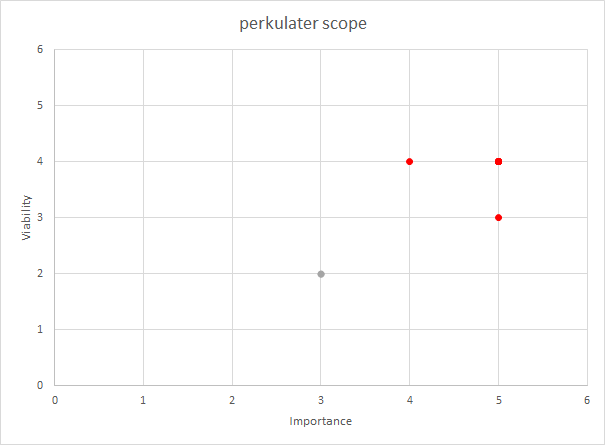
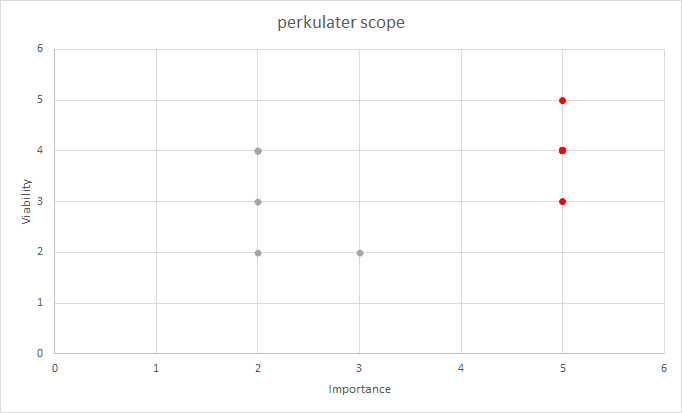
update project strategy and scope, add site map

diff --git a/README.md b/README.md
@@ -53,13 +53,20 @@
 - [Acknowledgements](#acknowledgements)
 
 ## Background ##
-With the rise in home working, many former commuters now miss out on a the joy of drinking a high quality morning coffee made with the finest ingredients. **Perkulater** aims to provide great quality coffee beans and ground coffee, delivered to your home.
+With the rise in home working seen in 2020 and 2021 due to the coronavirus pandemic, many former commuters now miss out on a the joy of drinking a high quality morning coffee made with the finest quality ingredients. Specialist, small batch coffee subscription services have been a significant growth market in 2020 and 2021, as the links below show:  
+[CNN Business](https://edition.cnn.com/2020/06/21/business/people-signing-up-for-coffee-subscriptions/index.html)  
+[World Coffee Portal](https://www.worldcoffeeportal.com/Latest/InsightAnalysis/2020/November/Home-Is-Where-the-Coffee-Is)  
+[BBC News](https://www.bbc.com/future/bespoke/made-on-earth/how-the-coffee-trade-survived-Covid-19.html)  
+
+**Perkulater** aims to provide great quality, ethically sourced coffee beans and ground coffee, delivered to your home. The business will initially focus on providing a just a handful of lovingly curated, high quality coffees. If the initial business proves to be successful, the future growth strategy would be to begin to expand into offering **cold brew**, **coffee making equipment** e.g. V60 drippers, stove top espresso pots, AeroPress coffee makers etc., **coffee pods** and eventually **branded merchandise**.
+
+Please note that at this stage, **perkulater** is a ficticious store which has been created for the purposes of satisfying the requirements for the **Code Institute** Full Stack Development Course Milestone Project 4.
 
 ## Mission Statement ##
-To provide great quality coffee beans and ground coffee delivered to your home.
+To provide great quality, ethically sourced coffee beans and ground coffee delivered to your home.
 
 ## Target Audience ##
-The target audience for **perkulater** are consumers who love great quality coffee and would like to be able to make coffee shop quality coffee at home.
+The target audience for **perkulater** are consumers who love great quality, ethically sourced coffee and would like to be able to make coffee shop quality coffee at home. **Perkulater** will be aimed at the higher end of the market, where consumers prioritise high quality and responsibly sourced coffee over low prices.
 
 ## Stakeholder Interviews
 Short interviews were carried out with potential customers.
@@ -72,15 +79,17 @@ Short interviews were carried out with potential customers.
 * "What is the price?"
 * "What are the delivery costs?"
 * "Is there positive feedback from happy customers?"
+* "How do I know that the coffee will be tailored to my taste?"
 
 "Are there any particular features you would like to see in an online coffee beans and ground coffee website?"
 * "I would like to be able to subscribe to get a regular delivery of my favourite coffee beans."
-* "I would like to be able to subscribe to get a regular delivery of different coffee beans selected based on my preferences."
+* "I would like to be able to subscribe to get a regular delivery of different coffee beans selected based on my taste preferences."
 * "I would like to be able to purchase a gift card."
 
 ## Business Objectives ##
+Although the business is ficticous at this stage, the following business objectives have been considered as part of the overall development strategy:  
 * Provide a high quality, well designed online shop that enables secure purchases, inspires confidence in the quality of the product, and increases the likelyhood of repeat purchases and subscriptions.
-* Provide the ability for customers to leave positive feedback and reviews on the products, to inspire confidence in new customers.
+* Provide the ability and incentivise customers to leave positive feedback and reviews on the products, to inspire confidence in new customers.
 * Grow the brand over time, starting with coffee beans and ground coffee and scaling up to add more products as the brand grows.
 * Track sales data to inform future business strategy.
 
@@ -92,11 +101,11 @@ Short interviews were carried out with potential customers.
 * Review and recommend products.
 * Contact the business about an order.
 * Contact the business with a general enquiry.
-* Customise my subscription service so that I can try different coffees based on my preferences.
-* Purchase high quality cold brew coffee in a can (this product line will be added in a future development phase).
-* Purchase high quality coffee making equipment (this product line will be added in a future development phase).
-* Purchase high quality, great tasting coffee pods (this product line will be added in a future development phase).
-* Purchase branded merchadise (this product line will be added in a future development phase).
+* Customise my subscription service so that I can try different coffees specifically tailored to my taste preferences.
+* Purchase high quality cold brew coffee in a can (this product line could potentially be added in a future development phase).
+* Purchase high quality coffee making equipment (this product line could potentially be added in a future development phase).
+* Purchase high quality, great tasting coffee pods (this product line could potentially be added in a future development phase).
+* Purchase branded merchadise (this product line could potentially be added in a future development phase).
 
 ## UX ##
 
@@ -107,16 +116,16 @@ The following opportunities were identified and ranked using a score of 1 - 5 fo
 
 Opportunity|Description|Importance|Viability|Opportunity ID|Development Phase
 -----------|-----------|----------|---------|--------------|-----------------
-Coffee beans and ground coffee|Develop an online store to sell high quality coffee beans and ground coffee|5|4|Op-1|1
-Showcase developer skills|The site will serve as a showcase for the developer's skills, and increase the developer's standing within the tech community|5|4|Op-2|1
-Subscriptions|Provide a subscription service so customers can have coffee delivered on a regular basis|5|3|Op-3|1
-Gift cards|Sell gift cards and/or the ability to gift a subscription|4|4|Op-4|1
-Customer recommendations|Provide the facility to add positive customer feedback and recommendations|5|4|Op-5|1
-Customised subscription service|Customise the subscription service so that customers can try different coffee each time their subscription is fulfilled based on their preferences|3|2|Op-6|2
-Cold brew|Add cold brew cans to the product line|3|2|Op-7|2
-Coffee making equipment|Add coffee making equipment e.g. V60 drippers, filters, stove top espresso pots, aeropresses, espresso machines etc to the product line|2|2|Op-8|2
-Pods|Add coffee pods compatible with popular coffee machines to the product line|3|2|Op-9|2
-Engage with suppliers|Engage directly with coffee farmers in order to source high quality ethically grown coffee directly from source|4|1|Op-10|3
+Engage with suppliers|Engage directly with coffee farmers in order to source high quality ethically grown coffee directly from source|5|3|Op-1|1
+Coffee beans and ground coffee|Develop an online store to sell high quality, ethically sourced coffee beans and ground coffee|5|4|Op-2|1
+Showcase developer skills|The site will serve as a showcase for the developer's skills, and increase the developer's standing within the tech community|5|4|Op-3|1
+Subscriptions|Provide a subscription service so customers can have coffee delivered on a regular basis|5|3|Op-4|1
+Customer reviews|Provide the facility for customers to add reviews to products|5|4|Op-5|1
+Gift cards|Sell gift cards and/or the ability to gift a subscription|4|4|Op-6|1
+Customised subscription service|Customise the subscription service so that customers can try different coffee each time their subscription is fulfilled tailored to their specific taste preferences|3|2|Op-7|2
+Cold brew|Add cold brew to the product line|3|2|Op-8|2
+Coffee making equipment|Add coffee making equipment e.g. V60 drippers, filters, stove top espresso pots, AeroPresses, espresso machines etc to the product line|2|2|Op-9|2
+Pods|Add coffee pods compatible with popular coffee machines to the product line|3|2|Op-10|2
 Merchandise|Add company branded merchadise to the product line|1|1|Op-11|3
 
 See **perkulater** strategy chart below. Opportunities to be included for phase 1 are shown in *Red*, and opportunities to be deferred to a future development phase are shown in *Grey*: 
@@ -125,40 +134,50 @@ See **perkulater** strategy chart below. Opportunities to be included for phase 
 
 ### Project Scope ###
 #### User Demographics ####
-* The primary users of the site will be consumers who are looking for high quality coffee beans and ground coffee for home delivery. 
-* A simple, clean and modern looking, well layed out site with the key information being easy to find would suit this demographic.
+* The primary users of the site will be consumers who are looking for high quality, etically sourced coffee beans and ground coffee for home delivery. 
+* A simple, clean and modern looking, well layed out site with the key information being easy to find and purchases being easy to make in a few clicks would suit this demographic.
 
 #### User Requirements ####
 * Simple and well layed out.
+* Visually appealing.
+* Intuitive.
 * Clean and modern looking.
 * Easy to find key information.
 * Easy to make a purchase in just a few clicks.
 * The site should inspire the consumer with the confidence to make a purchase.
+* The site should be secure as the consumer is handing over credit card information.
 * Responsive design is required as users may be viewing the site on Mobile, Tablet or Desktop.
 
 #### Functional Requirements ####
 In order to determine the functional requirements of the site, the following user stories have been developed.
 
 #### User Stories ####
-As a **User**, I would like to be able to:
+As a **Potential Customer**, I would like to be able to:
 * Immediately understand the intent of the site.
 * View and navigate the site on all devices.
-* Search for products.
-* Purchase products.
-* Register on the site.
-* Sign in to my account
-* Sign out of my account.
-* Recover a forgotten password.
-* View and update my personal profile.
-* See a summary of my previous orders.
-* Contact the business about a specific order.
+* Learn about the coffees on offer, including a description of the flavours, so I can make an informed purchasing decision.
+* Learn about where the coffee beans are sourced from, so I can make an informed purchasing decision.
+* Understand the delivery charges, and how much I need to spend to get free delivery, so I can make an informed purchasing decision.
+* Add products to my cart, so I can make a purchase.
+* Subscribe for a regular purchase of a product.
+* Receive confirmation of my purchase via email, so I can be confident that the purchase has been made succesfully.
+* Register on the site, so I can make a repeat purchase more easily.
 * Contact the business with a general query.
 
+As a **Registered User**, I would like to be able to:
+* Sign in to my account.
+* Sign out of my account.
+* Recover a forgotten password.
+* View and update my personal profile, including default delivery details.
+* See a summary of my previous orders.
+* Contact the business about a specific order.
+* Add reviews to products, to help other customers make informed purchasing decisions.
+
 As a **Business Owner**, I would like to be able to:
+* Incentivise customers to add reviews to products, so that other customers will feel more confident about making a purchase.
 * Add, edit and delete products.
 * Add, edit and delete product categories.
-* Add and update positive customer feedback to display.
-* Track sales data.
+* Track sales data, to inform future purchasing decisions.
 
 #### Constraints #####
 * Developer skill set - the Developer is currently learning **Python** and **Django**. 
@@ -168,7 +187,7 @@ This coupled with the developer's current skills constraints may impact which fe
 can be succesfully implemented during the phase 1 development.
 
 #### Business Rules ####
-It is not envisaged at this stage that the **perkulater** will become a real business. The site has been created for the purposes of satisfying the criteria for the Code Institute Full Stack Development Course Milestone Project 4.
+It is not envisaged at this stage that the **perkulater** will become a real business. The site has been created for the purposes of satisfying the criteria for the **Code Institute** Full Stack Development Course Milestone Project 4.
 
 #### Key Features ####
 The following key features have been identified for development and scored from 1 - 5 for importance and viability. 
@@ -177,37 +196,35 @@ The proposed development phase has also been indicated:
 
 Feature ID|Feature|Description|Importance|Viability|Opportunity ID|Development Phase|
 ----------|-------|-----------|----------|---------|--------------|-----------------|
-F01|Product Search|Enables users to search the product database|5|4|Op-1|1
-F02|Purchase Products|Enables users to purchase a product|5|4|Op-1|1
-F02|Registration Form|User registration form|5|4|Op-1|1
-F03|Sign In	User|Sign In form|5|4|Op-1|1
-F04|Sign Out|User Sign Out|5|4|Op-1|1
-F05|Update Profile|Update user profile|5|4|Op-1|1
-F06|Recover Password|Recover a forgotten user password|5|4|Op-1|1
-F07|Order Summary|See a summary of previous orders|5|4|Op-1|1
-F08|Order Contact|Contact the business owner about a specific order|5|4|Op-1|1
-F09|General Contact|Contact the business owner about a general enquiry|5|4|Op-1|1
-F10|Add Product|Enables users with required privelages to add a product|5|4|Op-1|1
-F11|Edit Product|Enables users with required privelages to edit a product|5|4|Op-1|1
-F12|Delete Product|Enables users with required privelages to delete a product|5|4|Op-1|1
-F13|Add Category|Enables users with required privelages to add a category|5|4|Op-1|1
-F14|Edit Category|Enables users with required privelages to edit a category|5|4|Op-1|1
-F15|Delete Category|Enables users with required privelages to delete a category|5|4|Op-1|1
-F16|Add Customer Feedback|Enables users with required privelages to add customer feedback|5|4|Op-5|1
-F17|Edit Customer Feedback|Enables users with required privelages to edit customer feedback|5|4|Op-5|1
-F18|Delete Customer Feedback|Enables users with required privelages to delete customer feedback|5|4|Op-5|1
-F19|Subscribe|Enables users to subscribe for regular coffee delivery|5|3|Op-3|1
-F20|Purchase Gift Card|Enables users to purchase a gift card|4|4|Op-4|1
-F21|Track sales data|Enables users with required privelages to export sales data from the database|3|2|Op-1|2
-F22|Customised Subscription Service|Customise the subscription service so that customers can try different coffee each time their subscription is fulfilled based on their preferences|3|2|Op-6|2
+F01|Product Detail|Description of the products on offer, including a description of the coffee flavours and a description of where the coffee beans are sourced from, sizes etc|5|5|Op-2|1
+F02|Purchase Products|Enables users to purchase a product, including secure card verification and confirmation email|5|4|Op-2|1
+F03|Registration Form|User registration form|5|4|Op-2|1
+F04|Sign In|Sign in to User Profile|5|4|Op-2|1
+F05|Sign Out|Sign out of User Profile|5|4|Op-2|1
+F06|Update Profile|Update user profile|5|4|Op-2|1
+F07|Recover Password|Recover a forgotten user profile password|5|4|Op-2|1
+F08|Order Summary|See a summary of previous orders|5|4|Op-2|1
+F09|Order Contact|Contact the business owner about a specific order|5|4|Op-2|1
+F10|Review Product|Review a product I have purchased|5|4|Op-2|1
+F11|Reward for Reviewing Product|Give a customer a reward for reviewing a product|5|4|Op-2|1
+F12|Subscribe|Enables users to subscribe for regular coffee delivery|5|3|Op-4|1
+F13|Add Product|Enables users with required privelages to add a product|5|4|Op-2|1
+F14|Edit Product|Enables users with required privelages to edit a product|5|4|Op-2|1
+F15|Delete Product|Enables users with required privelages to delete a product|5|4|Op-2|1
+F16|Add Category|Enables users with required privelages to add a category|2|4|Op-2|2
+F17|Edit Category|Enables users with required privelages to edit a category|2|4|Op-2|2
+F18|Delete Category|Enables users with required privelages to delete a category|2|4|Op-2|2
+F19|Purchase Gift Card|Enables users to purchase a gift card|2|3|Op-4|2
+F20|Track sales data|Enables users with required privelages to export sales data from the database|3|2|Op-2|2
+F21|Customised Subscription Service|Customise the subscription service so that customers can try different coffee each time their subscription is fulfilled tailored to their specific taste preferences|3|2|Op-6|2
 
 See **perkulater** scope chart below. Opportunities to be included for phase 1 are shown in *Red*, and opportunities to be deferred to a future development phase are shown in *Grey*: 
 
 <img src="static/wireframes/perkulater-scope-chart.png" width="600px" style="margin: 10px;">
 
 ### Site Map ###
-An initial [Site Map](/static/wireframes/site-map.png) was produced, and is shown below:  
-<img src="/static/wireframes/site-map.png" width="400px" style="margin: 10px;">
+A preliminary [Site Map](static/wireframes/perkulater-site-map.png) was produced for the **Phase 1** development, and is shown below:  
+<img src="static/wireframes/perkulater-site-map.png" width="400px" style="margin: 10px;">
 
 ### Wireframes ### 
 [Initial Wireframes](/static/wireframes/rev0) were produced showing the **Home**, **Sign In**, **Register**, **View Product**, 
